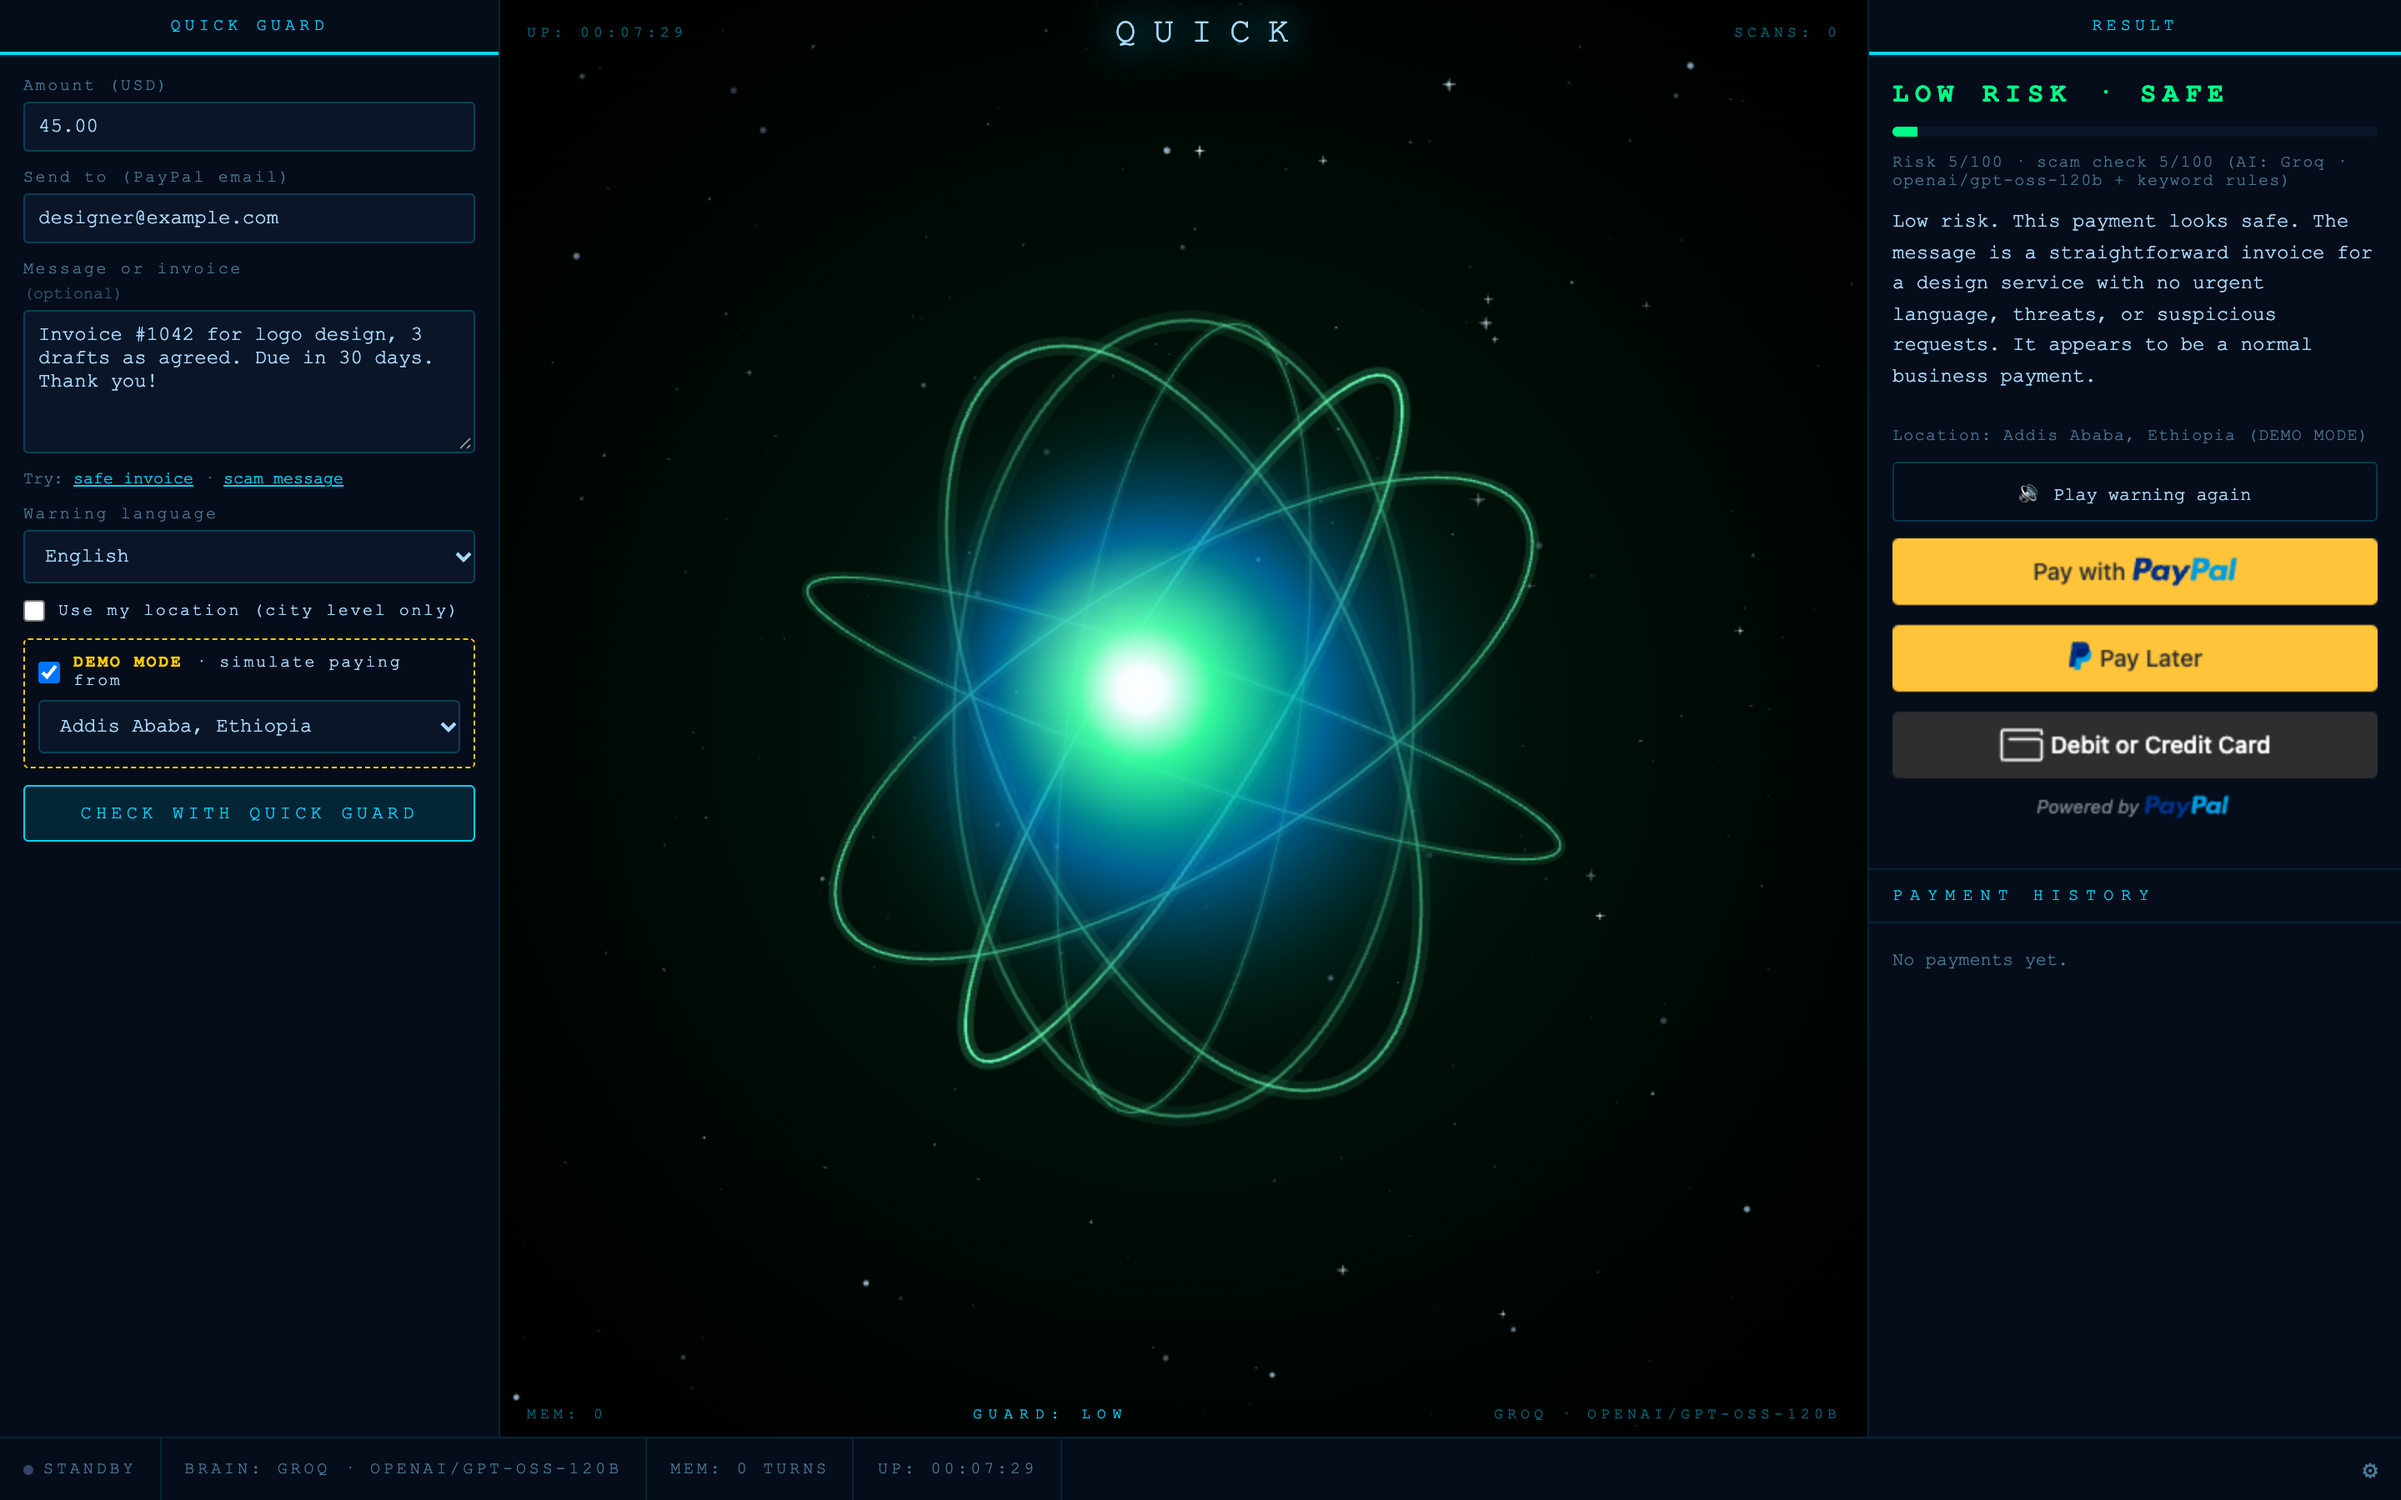
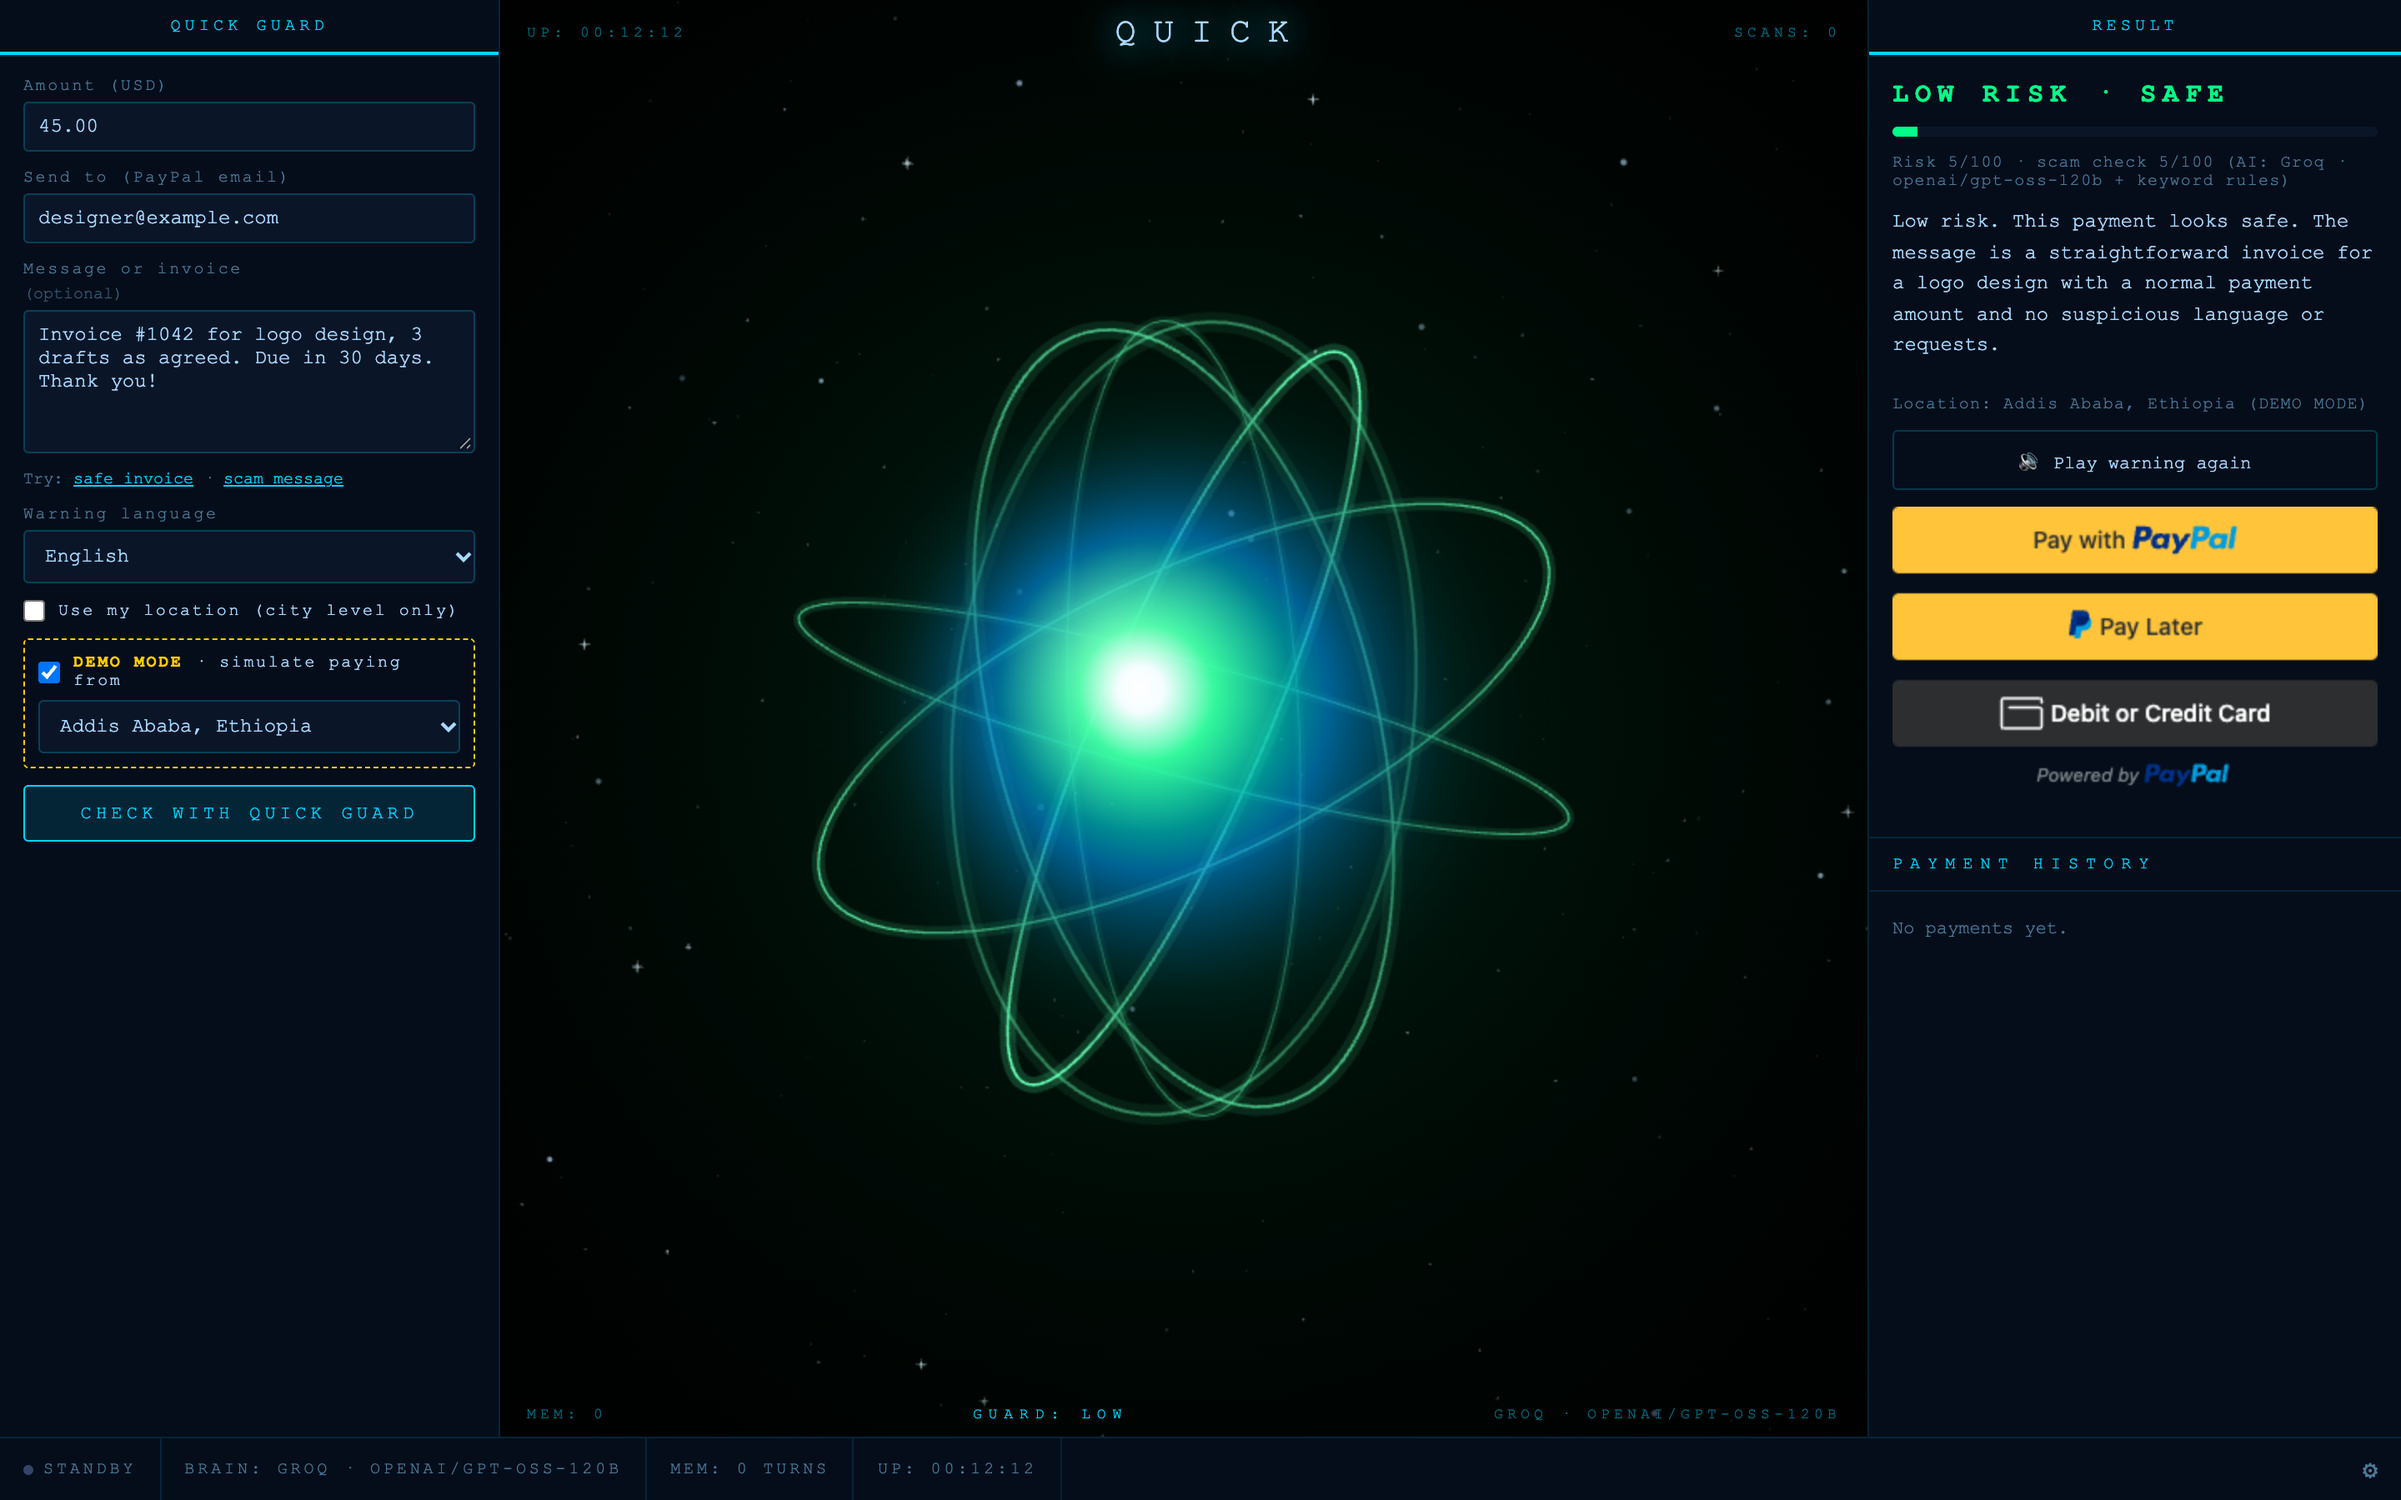
Judge-ready README, updated brief, fresh live screenshots
- Judge test account with sandbox business + buyer placeholders
- Amharic voice step in the 2-minute test, three Demo Mode screenshots
- Brief: final live check, what's next; ignore the local Devpost draft

Changed region(s): [[0.3125, 0.2178, 0.6562, 0.7467], [0.7812, 0.1867, 1.0, 0.56], [0.7812, 0.5911, 0.875, 0.6222]]

diff --git a/README.md b/README.md
@@ -26,24 +26,27 @@ to hear the spoken warnings. Tick **DEMO MODE** so the site uses a sample city i
 
 ### 1. A safe payment (≈ 30 seconds)
 1. Tick **DEMO MODE** and pick **Addis Ababa, Ethiopia**.
-2. Click **Try: safe invoice**, and type any recipient email, e.g. `designer@example.com`.
+2. Click **Try: safe invoice**. In **Send to**, paste the **sandbox business email** from the
+   [judge test account](#judge-test-account) below (that's who receives the fake sandbox money).
 3. Click **CHECK WITH QUICK GUARD**.
 4. The orb turns **green**: **LOW RISK · SAFE**, and the PayPal buttons appear.
 5. Click **Pay with PayPal** and log in with the **judge test account** below. After you approve, the
    payment is captured and appears as **PAID** in Payment history.
 
-### 2. A scam blocked (≈ 20 seconds)
-1. Click **Try: scam message** (a fake "PayPal Security Team: your account has been limited…" notice).
-2. Set **Warning language** to **አማርኛ (Amharic)** to hear the warning in Amharic, or leave it in English.
+### 2. A scam blocked, with an Amharic voice warning (≈ 20 seconds)
+1. Click **Try: scam message** (a fake "PayPal Security Team: your account has been limited…" notice),
+   and type any recipient, e.g. `pp.security.help@gmail.com`.
+2. Set **Warning language** to **አማርኛ (Amharic)**.
 3. Click **CHECK WITH QUICK GUARD**.
-4. The orb turns **red**: **HIGH RISK · BLOCKED**. Every red flag quotes the exact words that gave the scam
-   away, the warning is spoken aloud, and **no PayPal buttons are shown**. The server also refuses to
+4. The orb turns **red**: **HIGH RISK · BLOCKED**. The explanation and red flags appear in Amharic, each
+   flag quotes the exact words that gave the scam away, the warning is **spoken aloud in Amharic**
+   (click **Play warning again** if your browser blocked autoplay), and **no PayPal buttons are shown**. The server also refuses to
    create a PayPal order for this check, even if someone calls the API directly.
 
 ### 3. Impossible travel (≈ 1 minute; do test 1 first)
 1. Complete test 1, a real sandbox payment from **Addis Ababa**. That city is now your trusted location.
 2. In DEMO MODE, switch the city to **Tokyo, Japan**.
-3. Click **Try: safe invoice** again and **CHECK WITH QUICK GUARD**.
+3. Click **Try: safe invoice** again (same sandbox business email) and **CHECK WITH QUICK GUARD**.
 4. Result: **HIGH RISK · BLOCKED**. The message is harmless, but getting from Addis Ababa to Tokyo in a few
    minutes would mean traveling at hundreds of thousands of km/h, so it looks like someone else is using
    the account.
@@ -53,20 +56,24 @@ available in English, Amharic, Spanish, French, Mandarin, Hindi and Nepali.
 
 ### Judge test account
 
-Use this **PayPal Sandbox** buyer account in the PayPal popup. It holds fake sandbox money only.
+These are **PayPal Sandbox** test accounts. They hold fake sandbox money only, and no real money moves.
 
 | | |
 |---|---|
-| Sandbox buyer email | `[FILL IN: sandbox buyer email]` |
+| **Send to** (sandbox business email, paste into the form) | `[FILL IN: sandbox business email]` |
+| Sandbox buyer email (log in to the PayPal popup) | `[FILL IN: sandbox buyer email]` |
 | Sandbox buyer password | `[FILL IN: sandbox buyer password]` |
+
+Checks and payment history live in server memory, so a server restart (or ~15 minutes) clears them.
+If the impossible-travel test shows LOW, run test 1 again first.
 
 ## Screenshots
 
 All taken on the live site with DEMO MODE on.
 
-| Safe payment → PayPal buttons | Scam blocked |
-|---|---|
-| ![LOW risk, PayPal buttons shown](docs/screenshots/safe-payment.png) | ![HIGH risk, blocked, red flags quoted](docs/screenshots/scam-blocked.png) |
+| Safe payment → PayPal buttons | Scam blocked | Scam blocked, in Amharic |
+|---|---|---|
+| ![LOW risk, PayPal buttons shown](docs/screenshots/safe-payment.png) | ![HIGH risk, blocked, red flags quoted](docs/screenshots/scam-blocked.png) | ![HIGH risk, warning in Amharic](docs/screenshots/scam-blocked-amharic.png) |
 
 ## How it works
 
@@ -155,6 +162,11 @@ Python · Flask · Gunicorn · PayPal Orders API v2 and JavaScript SDK (Sandbox)
 Ollama (local development) · Microsoft Edge neural voices (`edge-tts`) · Render · pytest · Playwright · Claude Code
 
 More detail: [QUICK_GUARD_BRIEF.md](QUICK_GUARD_BRIEF.md).
+
+## How it was built
+
+Built solo by Yabsera Kebede, with [Claude Code](https://claude.com/claude-code) as an AI coding assistant
+for writing code, tests and reviews. Deployed on Render from the `main` branch.
 
 ## License
 

diff --git a/QUICK_GUARD_BRIEF.md b/QUICK_GUARD_BRIEF.md
@@ -149,6 +149,10 @@ Past that, checks fall back to keyword rules until the minute resets.
 - **Attacks:** 5 prompt injections stay HIGH, even with an AI that fully obeys them. XSS payloads stay plain text.
   20+ malformed inputs and 8 malformed body types get clean 4xx errors. The 31st check is rate-limited.
   Every local-only route returns 403. No secret or access token appears in any response, page, log or tracked file.
+- **Final live check (2026-11-10, Chrome, DEMO MODE):** safe invoice → LOW 5/100 with PayPal buttons, and the server
+  creates a sandbox order; fake "PayPal Security Team" message → HIGH 100/100, blocked, 8 quoted red flags, spoken
+  in English and in Amharic (`am-ET-MekdesNeural`); the server refuses an order for the HIGH check (403). All answers came
+  from Groq `openai/gpt-oss-120b`.
 - **AI failure:** Ollama down, a wrong or missing Groq key, and 15 kinds of broken AI JSON all fall back to keyword
   rules with calm wording, and the page keeps working.
 
@@ -165,3 +169,10 @@ Past that, checks fall back to keyword rules until the minute resets.
 - The free Render plan sleeps when idle, so the first visit after a while takes ~30–60 s to wake.
 - IP location is city-level and can be wrong (VPNs, mobile networks). That's why travel only adds risk and never blocks on its own unless it's physically impossible.
 - QUICK's original chat (`/chat`) needs a local Ollama, so on the deployed site it returns 403 and the chat box is hidden.
+
+## 11. What's next
+
+- **Recipient check** (in progress, not deployed): look up the recipient email's domain (does it exist, can it receive
+  mail, how old is it, is it a throwaway inbox or a PayPal look-alike) and hand those facts to the AI.
+- Native-speaker review of every language, starting with the newest Amharic labels.
+- Save trusted locations and history in a database, so restarts don't clear them and the app can run more than one worker.
